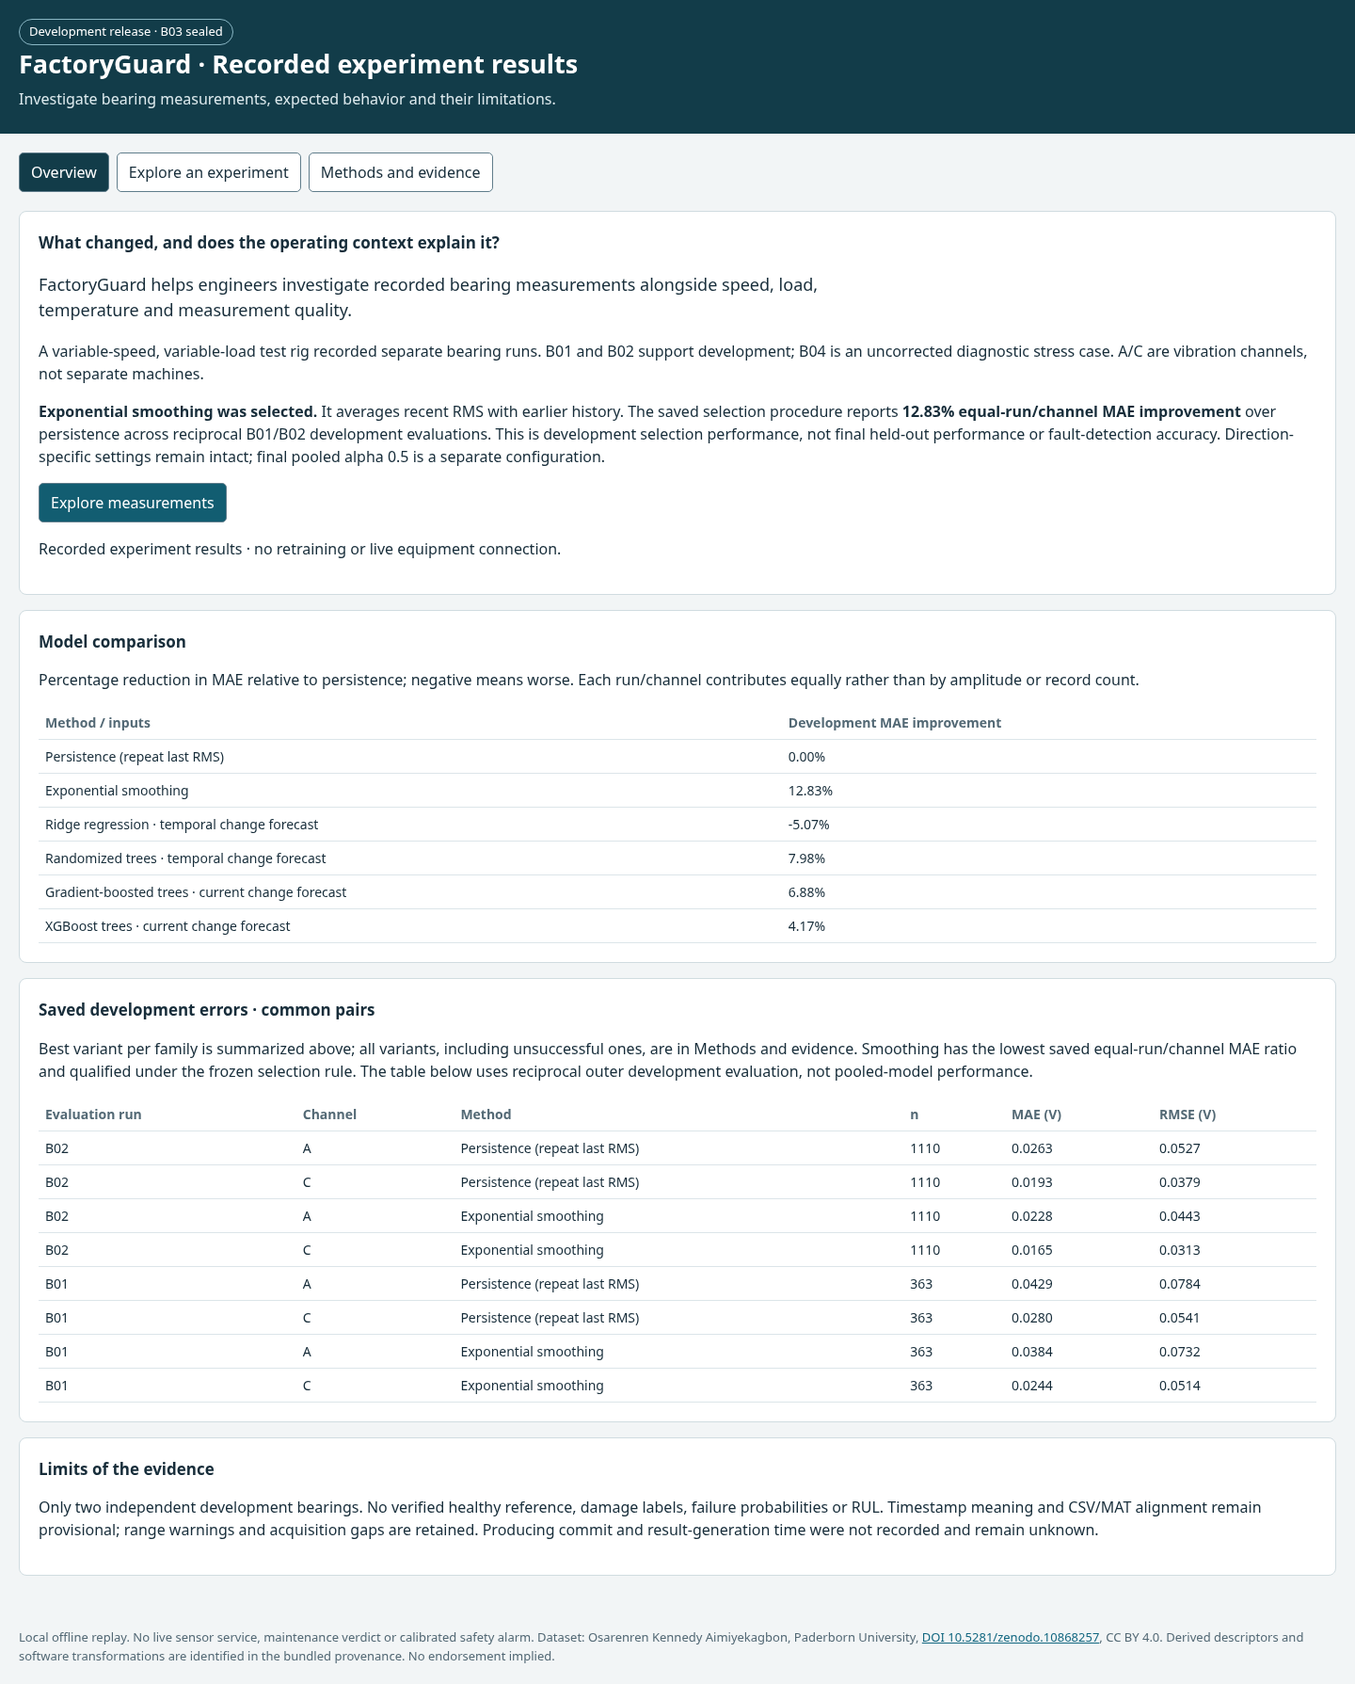
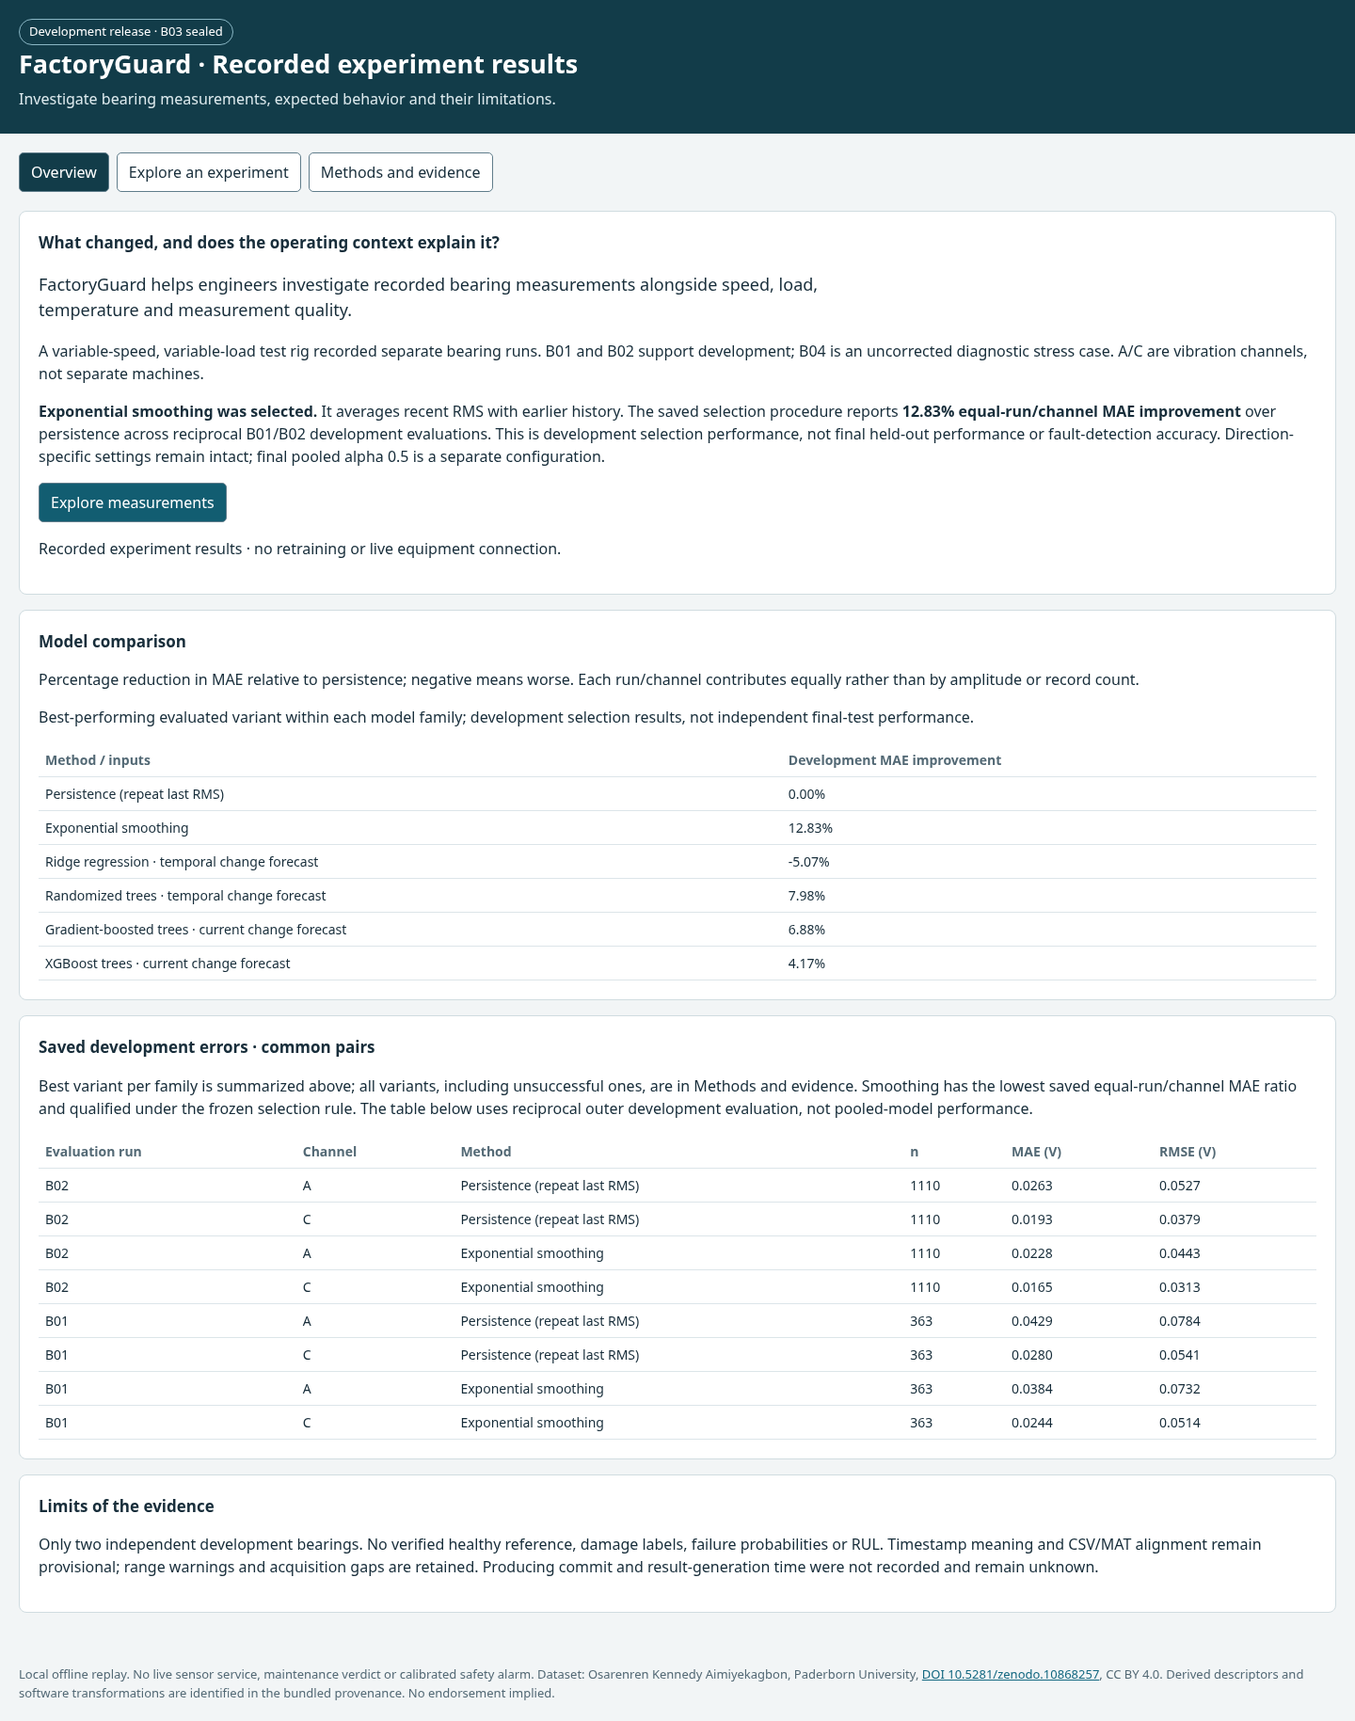
Finalize reviewer provenance and preserve valid period evidence

diff --git a/site/reviewer.js b/site/reviewer.js
@@ -9,7 +9,10 @@ notesAction=async function(action,body={}){const key=noteKey();let list=readNote
 const originalShowNotes=showNotes;
 showNotes=async function(){await originalShowNotes();$('noteMode').textContent=storageWarning||'Notes are browser-local, isolated by result snapshot and experiment. They do not alter published results.';const old=readNotes(legacyKey());if(old.length){const box=document.createElement('div');box.className='notice';box.textContent=`${old.length} legacy notes found. Their snapshot is unknown; they have not been mixed into this notebook. `;const button=document.createElement('button');button.textContent='Export legacy notes';button.onclick=()=>downloadJSON({legacy_snapshot:'unknown',experiment:run,user_notes:old},'FactoryGuard-legacy-notes.json');box.append(button);$('notes').prepend(box);}};
 function downloadJSON(value,name){const url=URL.createObjectURL(new Blob([JSON.stringify(value,null,2)],{type:'application/json'}));const a=document.createElement('a');a.href=url;a.download=name;a.click();setTimeout(()=>URL.revokeObjectURL(url),1000);}
-function investigationReport(){const p=period(),events=state.events.slice(p.start-1,p.stop);return {title:'FactoryGuard investigation — recorded data',experiment:run,selected_period:{...p,first_clock:events[0].source_time,last_clock:events.at(-1).source_time},source_manifest:meta.reviewer_source_manifest||null,website_build_commit:meta.reviewer_source_manifest?.website_build_commit??null,result_code_commit:meta.reviewer_source_manifest?.result_code_commit??null,result_generation_time:meta.reviewer_source_manifest?.result_generation_time??null,model_settings:meta.models?.[run]??null,software_version:meta.software_version??null,reference_identifiers:{sha256:meta.reference_sha256??null,sources:[...new Set(events.map(e=>e.context_reference?.source_run).filter(Boolean))]},limitations:meta.clock+'; descriptive development evidence; no healthy reference or confirmed damage. Coarse bins do not prove identical conditions.',machine_generated_evidence:events,user_notes:notebook.filter(n=>n.start<=p.stop&&n.stop>=p.start)};}
+function referenceIdentifiers(events){const sources=rows=>[...new Set(rows.map(e=>e.context_reference?.source_run).filter(Boolean))];return {sha256:meta.reference_sha256??null,sha256_identifies:meta.reference_sha256?'Reference-only artifact identified by workspace metadata':null,pinned_replay_snapshot_sha256:meta.reviewer_source_manifest?.files?.['replay.json']??null,pinned_replay_snapshot_sha256_identifies:'Pinned replay.json containing observations, forecasts, errors and embedded reference evidence; not a reference-only hash',sources:sources(embedded.states[run]?.events||events),sources_identifies:'Source runs named by embedded references for this experiment in the pinned snapshot; does not imply support for the selected period',selected_period_matched_sources:sources(events)};}
+function periodIdentity(){return JSON.stringify([snapshot,run,state.revealed,$('periodStart').value,$('periodStop').value]);}
+function invalidateChangedPeriod(){const el=$('periodSummary');if(el.dataset.identity!==periodIdentity()){el.textContent='Select observation boundaries and review the period.';delete el.dataset.identity;}}
+function investigationReport(){const p=period(),events=state.events.slice(p.start-1,p.stop);return {title:'FactoryGuard investigation — recorded data',experiment:run,selected_period:{...p,first_clock:events[0].source_time,last_clock:events.at(-1).source_time},source_manifest:meta.reviewer_source_manifest||null,website_build_commit:meta.reviewer_source_manifest?.website_build_commit??null,result_code_commit:meta.reviewer_source_manifest?.result_code_commit??null,result_generation_time:meta.reviewer_source_manifest?.result_generation_time??null,unknown_provenance_explanation:meta.reviewer_source_manifest?.missing_provenance??'Producing commit and result-generation time were not recorded; unknown fields remain null.',model_settings:meta.models?.[run]??null,software_version:meta.software_version??null,reference_identifiers:referenceIdentifiers(events),limitations:meta.clock+'; descriptive development evidence; no healthy reference or confirmed damage. Coarse bins do not prove identical conditions.',machine_generated_evidence:events,user_notes:notebook.filter(n=>n.start<=p.stop&&n.stop>=p.start)};}
 $('report').onclick=()=>coordinated(async()=>{await showNotes();downloadJSON(investigationReport(),'FactoryGuard-'+run+'-investigation.json');});
 function friendly(group){const family={persistence:'Persistence (repeat last RMS)',smoothing:'Exponential smoothing',ridge:'Ridge regression',extra:'Randomized trees',boost:'Gradient-boosted trees',xgb:'XGBoost trees'};const [base,...rest]=group.split('_');return (family[base]||group)+(rest.length?' · '+rest.join(' ').replace('delta','change forecast').replace('direct','level forecast'):'');}
 function view(name){stop();document.querySelectorAll('[data-view]').forEach(el=>el.hidden=el.dataset.view!==name);document.querySelectorAll('[data-nav]').forEach(b=>b.setAttribute('aria-pressed',String(b.dataset.nav===name)));}
@@ -23,6 +26,7 @@ async function enhance(){if(!state||!meta){setTimeout(enhance,20);return;}
  const metrics=savedSelection.method_results;const bestFamilies=new Map();for(const m of metrics){const family=m.group.split('_')[0];if(!bestFamilies.has(family)||m.macro_mae_ratio<bestFamilies.get(family).macro_mae_ratio)bestFamilies.set(family,m);}const summary=[...bestFamilies.values()].map(m=>`<tr><td>${esc(friendly(m.group))}</td><td>${(100*m.macro_mae_skill).toFixed(2)}%</td></tr>`).join('');
  panels[0].innerHTML='<section class="card"><h2>What changed, and does the operating context explain it?</h2><p class="lead">FactoryGuard helps engineers investigate recorded bearing measurements alongside speed, load, temperature and measurement quality.</p><p>A variable-speed, variable-load test rig recorded separate bearing runs. B01 and B02 support development; B04 is an uncorrected diagnostic stress case. A/C are vibration channels, not separate machines.</p><p><strong>Exponential smoothing was selected.</strong> It averages recent RMS with earlier history. The saved selection procedure reports <strong>12.83% equal-run/channel MAE improvement</strong> over persistence across reciprocal B01/B02 development evaluations. This is development selection performance, not final held-out performance or fault-detection accuracy. Direction-specific settings remain intact; final pooled alpha 0.5 is a separate configuration.</p><button class="primary" id="exploreAction">Explore measurements</button><p>Recorded experiment results · no retraining or live equipment connection.</p></section><section class="card"><h2>Model comparison</h2><p>Percentage reduction in MAE relative to persistence; negative means worse. Each run/channel contributes equally rather than by amplitude or record count.</p><div class="scroll"><table><tr><th>Method / inputs</th><th>Development MAE improvement</th></tr>'+summary+'</table></div></section><section class="card"><h2>Limits of the evidence</h2><p>Only two independent development bearings. No verified healthy reference, damage labels, failure probabilities or RUL. Timestamp meaning and CSV/MAT alignment remain provisional; range warnings and acquisition gaps are retained. Producing commit and result-generation time were not recorded and remain unknown.</p></section>';
  $('exploreAction').onclick=()=>view('1');nav.querySelectorAll('button').forEach(b=>b.onclick=()=>view(b.dataset.nav));
+ const aggregation=document.createElement('p');aggregation.id='comparisonScope';aggregation.textContent='Best-performing evaluated variant within each model family; development selection results, not independent final-test performance.';panels[0].querySelector('.scroll').before(aggregation);
  const errors=document.createElement('section');errors.className='card';errors.innerHTML='<h2>Saved development errors · common pairs</h2><p>Best variant per family is summarized above; all variants, including unsuccessful ones, are in Methods and evidence. Smoothing has the lowest saved equal-run/channel MAE ratio and qualified under the frozen selection rule. The table below uses reciprocal outer development evaluation, not pooled-model performance.</p><div class="scroll"><table><tr><th>Evaluation run</th><th>Channel</th><th>Method</th><th>n</th><th>MAE (V)</th><th>RMSE (V)</th></tr>'+reviewerMetrics.filter(r=>r.partition==='outer_evaluation'&&r.coverage==='common'&&['smoothing','persistence'].includes(r.group)).map(r=>`<tr><td>${r.evaluation_run}</td><td>${r.channel}</td><td>${esc(friendly(r.group))}</td><td>${r.n}</td><td>${Number(r.mae_v).toFixed(4)}</td><td>${Number(r.rmse_v).toFixed(4)}</td></tr>`).join('')+'</table></div>';panels[0].insertBefore(errors,panels[0].lastElementChild);
  $('metricFilter').oninput=()=>{const q=$('metricFilter').value.toLowerCase();comparison.querySelectorAll('tr').forEach((r,i)=>{if(i)r.hidden=!r.textContent.toLowerCase().includes(q);});};
  const showAll=document.createElement('button');showAll.id='showAll';showAll.textContent='Show full history';showAll.onclick=()=>coordinated(async()=>{stop();cursors[run]=embedded.states[run].total;state=await api('/api/state?run='+run);focus=-1;render();});document.querySelector('.toolbar').append(showAll);
@@ -35,11 +39,13 @@ async function enhance(){if(!state||!meta){setTimeout(enhance,20);return;}
  const historySection=$('history').closest('section'),historyPanel=document.createElement('details');historyPanel.id='historyPanel';historyPanel.className='card';historyPanel.innerHTML='<summary>Inspect recent observations · keyboard-accessible history</summary>';historySection.before(historyPanel);historyPanel.append(historySection);historySection.classList.remove('card');
  // Keep selected evidence next to the charts; detailed fields stay expandable.
  const notebookCard=$('note').closest('section');const changes=$('changes');$('notices').parentNode.append(changes.previousElementSibling,changes);
- const pick=document.createElement('button');pick.textContent='Use selected observation as period start';pick.onclick=()=>$('periodStart').value=focus+1;const end=document.createElement('button');end.textContent='Use as period end';end.onclick=()=>$('periodStop').value=focus+1;notebookCard.prepend(pick,end);
+ const pick=document.createElement('button');pick.textContent='Use selected observation as period start';pick.onclick=()=>{$('periodStart').value=focus+1;invalidateChangedPeriod();};const end=document.createElement('button');end.textContent='Use as period end';end.onclick=()=>{$('periodStop').value=focus+1;invalidateChangedPeriod();};notebookCard.prepend(pick,end);
  const review=document.createElement('button');review.id='reviewPeriod';review.textContent='Review selected period';const periodSummary=document.createElement('div');periodSummary.id='periodSummary';periodSummary.setAttribute('aria-live','polite');notebookCard.insertBefore(review,$('note').parentNode);notebookCard.insertBefore(periodSummary,review.nextSibling);review.onclick=()=>coordinated(async()=>{const p=period(),ev=state.events.slice(p.start-1,p.stop);periodSummary.textContent=`Observations ${p.start}–${p.stop}: ${ev.length} bursts, ${ev[0].source_time} to ${ev.at(-1).source_time} (provisional). ${ev.filter(e=>e.interval_s>24).length} gap boundaries, ${ev.filter(e=>e.notices.some(n=>n.kind==='measurement')).length} bursts with measurement notices. Reference support at first / last observation: ${ev[0].context_reference.status} (n=${ev[0].context_reference.n}) / ${ev.at(-1).context_reference.status} (n=${ev.at(-1).context_reference.n}). Inspect individual observations for missing values, operating transitions and window-specific evidence; a period does not establish a single operating condition.`;});
  const summaryCards=document.querySelector('.summary');summaryCards.lastElementChild.remove();summaryCards.style.gridTemplateColumns='1fr';
  $('chartError').parentNode.parentNode.append($('chartError').parentNode);
- let renderedRun=run;const originalRender=render;render=function(){originalRender();$('periodSummary').textContent='Select observation boundaries and review the period.';if(renderedRun!==run){$('periodStart').value=1;$('periodStop').value=1;renderedRun=run;}document.querySelectorAll('tr[data-index]').forEach(el=>{el.tabIndex=0;el.setAttribute('aria-label','Inspect observation '+state.events[+el.dataset.index].measurement_id);el.onkeydown=e=>{if(e.key==='Enter'||e.key===' '){e.preventDefault();el.click();}};});};
+ const reviewAction=review.onclick;review.onclick=async()=>{await reviewAction();if(!$('failure').textContent)periodSummary.dataset.identity=periodIdentity();};
+ $('periodStart').oninput=invalidateChangedPeriod;$('periodStop').oninput=invalidateChangedPeriod;
+ let renderedRun=run;const originalRender=render;render=function(){originalRender();if(renderedRun!==run){$('periodStart').value=1;$('periodStop').value=1;renderedRun=run;}invalidateChangedPeriod();document.querySelectorAll('tr[data-index]').forEach(el=>{el.tabIndex=0;el.setAttribute('aria-label','Inspect observation '+state.events[+el.dataset.index].measurement_id);el.onkeydown=e=>{if(e.key==='Enter'||e.key===' '){e.preventDefault();el.click();}};});};
  const originalInspect=inspect;inspect=function(){originalInspect();const e=state.events[focus];if(e){$('reference').querySelectorAll('p').forEach(p=>{p.textContent=p.textContent.replaceAll('A_ac_rms_v','A RMS (V)').replaceAll('C_ac_rms_v','C RMS (V)').replaceAll('T1_above_room_c','T1 above ambient (°C)').replaceAll('T2_above_room_c','T2 above ambient (°C)');});$('detail').insertAdjacentHTML('beforeend',`<p>Measured speed ${fmt(e.observation.context__measured_speed_rpm,0)} rpm · static load ${fmt(e.observation.context__measured_static_load_n,0)} N · dynamic peak ${fmt(e.observation.context__measured_dynamic_peak_n,0)} N</p>`);}};
  render();await showNotes();view('0');document.body.dataset.reviewerReady='true';
  $('commands').onchange=()=>render();

diff --git a/tests/test_reviewer_site.py b/tests/test_reviewer_site.py
@@ -1,5 +1,7 @@
 import importlib.util
 import json
+import csv
+import io
 from pathlib import Path
 import tempfile
 import unittest
@@ -24,6 +26,13 @@ class ReviewerSiteTests(unittest.TestCase):
             exported=json.loads(page.split('const embedded=',1)[1].split(';\nlet meta',1)[0])
             self.assertEqual(exported['states'],payload['states'])
             self.assertEqual(exported['metadata']['models'],payload['metadata']['models'])
+            self.assertEqual(sum(len(s['events']) for s in exported['states'].values()),2607)
+            metrics=json.loads(page.split('const reviewerMetrics=',1)[1].split(';const savedSelection=',1)[0])
+            expected=[]
+            for name in ('development_metrics.csv','stress_metrics.csv'):
+                expected.extend(csv.DictReader(io.StringIO((ROOT/'site/source'/name).read_text(encoding='utf-8'))))
+            self.assertEqual(len(metrics),432)
+            self.assertEqual(metrics,expected)
             self.assertIn('snapshot_id',exported['metadata']['reviewer_source_manifest'])
             self.assertEqual(len(payload['states']['B01']['events']),377)
             for state in payload['states'].values():

diff --git a/docs/pr1_description.md b/docs/pr1_description.md
@@ -1,0 +1,36 @@
+## Recorded bearing investigation and reviewer site
+
+FactoryGuard provides an offline, attributed real-data investigation dashboard:
+Overview, experiment exploration, and methods/evidence. B01/B02 development and
+uncorrected B04 diagnostic results are preserved; B03 stays sealed.
+
+The reviewer site opens with populated results and provides optional replay,
+observed/forecast/persistence vibration histories, thermal and operating context,
+quality-aware references, descriptive changes, keyboard inspection, local notes,
+and selected-period report downloads. Reports retain the full source manifest,
+model/build metadata, and explicitly labelled reference-only versus containing
+replay-snapshot hashes. Unknown original producing commit/time remain null.
+
+Period evidence survives presentation changes and invalidates on run, selected
+boundaries or revealed-history changes. The overview explicitly summarizes only
+the best-performing evaluated variant per family; 12.83% remains equal-run/channel
+development-selection MAE improvement, not independent final-test performance.
+Every evaluated variant and qualification remains available.
+
+## Verification and handover
+
+- 116 Python tests passed, including exact preservation of all 2,607 observations,
+  predictions, errors and all 432 saved comparison rows.
+- Hosted desktop/mobile browser regression checks cover selection, presentation
+  changes, reset/replay/full history, keyboard focus, isolated notes, deletion,
+  legacy export, blocked storage, full browser restart and downloaded provenance.
+- CI runs Windows/Ubuntu checks and uploads `factoryguard-reviewer-site` as a
+  complete extract-and-open site, with no visitor Python/API/CDN requirement.
+- Final remote CI verification remains pending through the connected integration.
+  Direct `file://` testing is blocked by the local managed Chromium policy; the
+  check remains mandatory in CI (no policy skip in CI).
+- Screenshots: `docs/images/reviewer-desktop.png`, `docs/images/reviewer-mobile.png`.
+
+The site remains unpublished. No merge, visibility change, new data, retraining,
+raw modification, B04 correction or B03 access. Ready for final review after CI;
+publication requires separate authorization under `docs/reviewer_site.md`.

diff --git a/docs/reviewer_site.md b/docs/reviewer_site.md
@@ -1,5 +1,22 @@
 # Reviewer site (prepared, unpublished)
 
+Final targeted handover: report `reference_identifiers.sha256` denotes only an
+actual reference artifact when available. `pinned_replay_snapshot_sha256` instead
+identifies the existing replay.json containing reference evidence, with an explicit
+label and experiment reference source runs. Selected-period matched source runs
+are listed separately (possibly empty for unsupported periods). Full manifest and
+unknown original commit/time explanations remain in every report. Period summaries
+survive presentation toggles; run/boundary/revealed-history changes invalidate them.
+The overview explicitly describes its best-evaluated-variant-per-family scope.
+
+Final checks preserve all 2,607 events including predictions/errors and 432 saved
+comparison rows exactly. Browser regressions also check actual downloaded report
+JSON, explicit note deletion, browser-profile restart and Pages-style subpath use.
+Local direct-file testing is blocked by managed Chromium policy
+(`ERR_BLOCKED_BY_ADMINISTRATOR` for file URLs); CI requires this check without a
+policy skip. Final Windows/Linux results must be verified through the connected
+GitHub integration. No further feature development is planned before review.
+
 The dashboard opens on **Overview**: purpose, data coverage, the saved 12.83%
 equal-run/channel development-selection MAE improvement, best variant per method
 family, and rounded direction-specific errors. **Explore an experiment** opens

diff --git a/docs/project_status.md b/docs/project_status.md
@@ -1,5 +1,18 @@
 # Current project status: development release v3
 
+## Final targeted reviewer handover
+
+Reports explicitly distinguish reference-only hashes from the pinned containing
+replay snapshot, with source runs and full manifest. Unknown producing commit/time
+remain explained nulls. Selected-period summaries survive presentation changes and
+invalidate on underlying selection/history changes. Overview comparison scope now
+uses the requested evaluated-variant qualification. No saved results were changed:
+2,607 complete events and 432 comparison rows are checked exactly by export tests.
+116 Python tests passed. Final browser/CI status and publication steps are in
+`docs/reviewer_site.md`; final PR description is in `docs/pr1_description.md` if
+GitHub access blocks the authorized update. Site unpublished; feature work stops
+for review. B03 sealed, raw unchanged, B04 uncorrected.
+
 ## Simplified reviewer dashboard
 
 Three views now separate overview, measurement exploration and methods/evidence.
